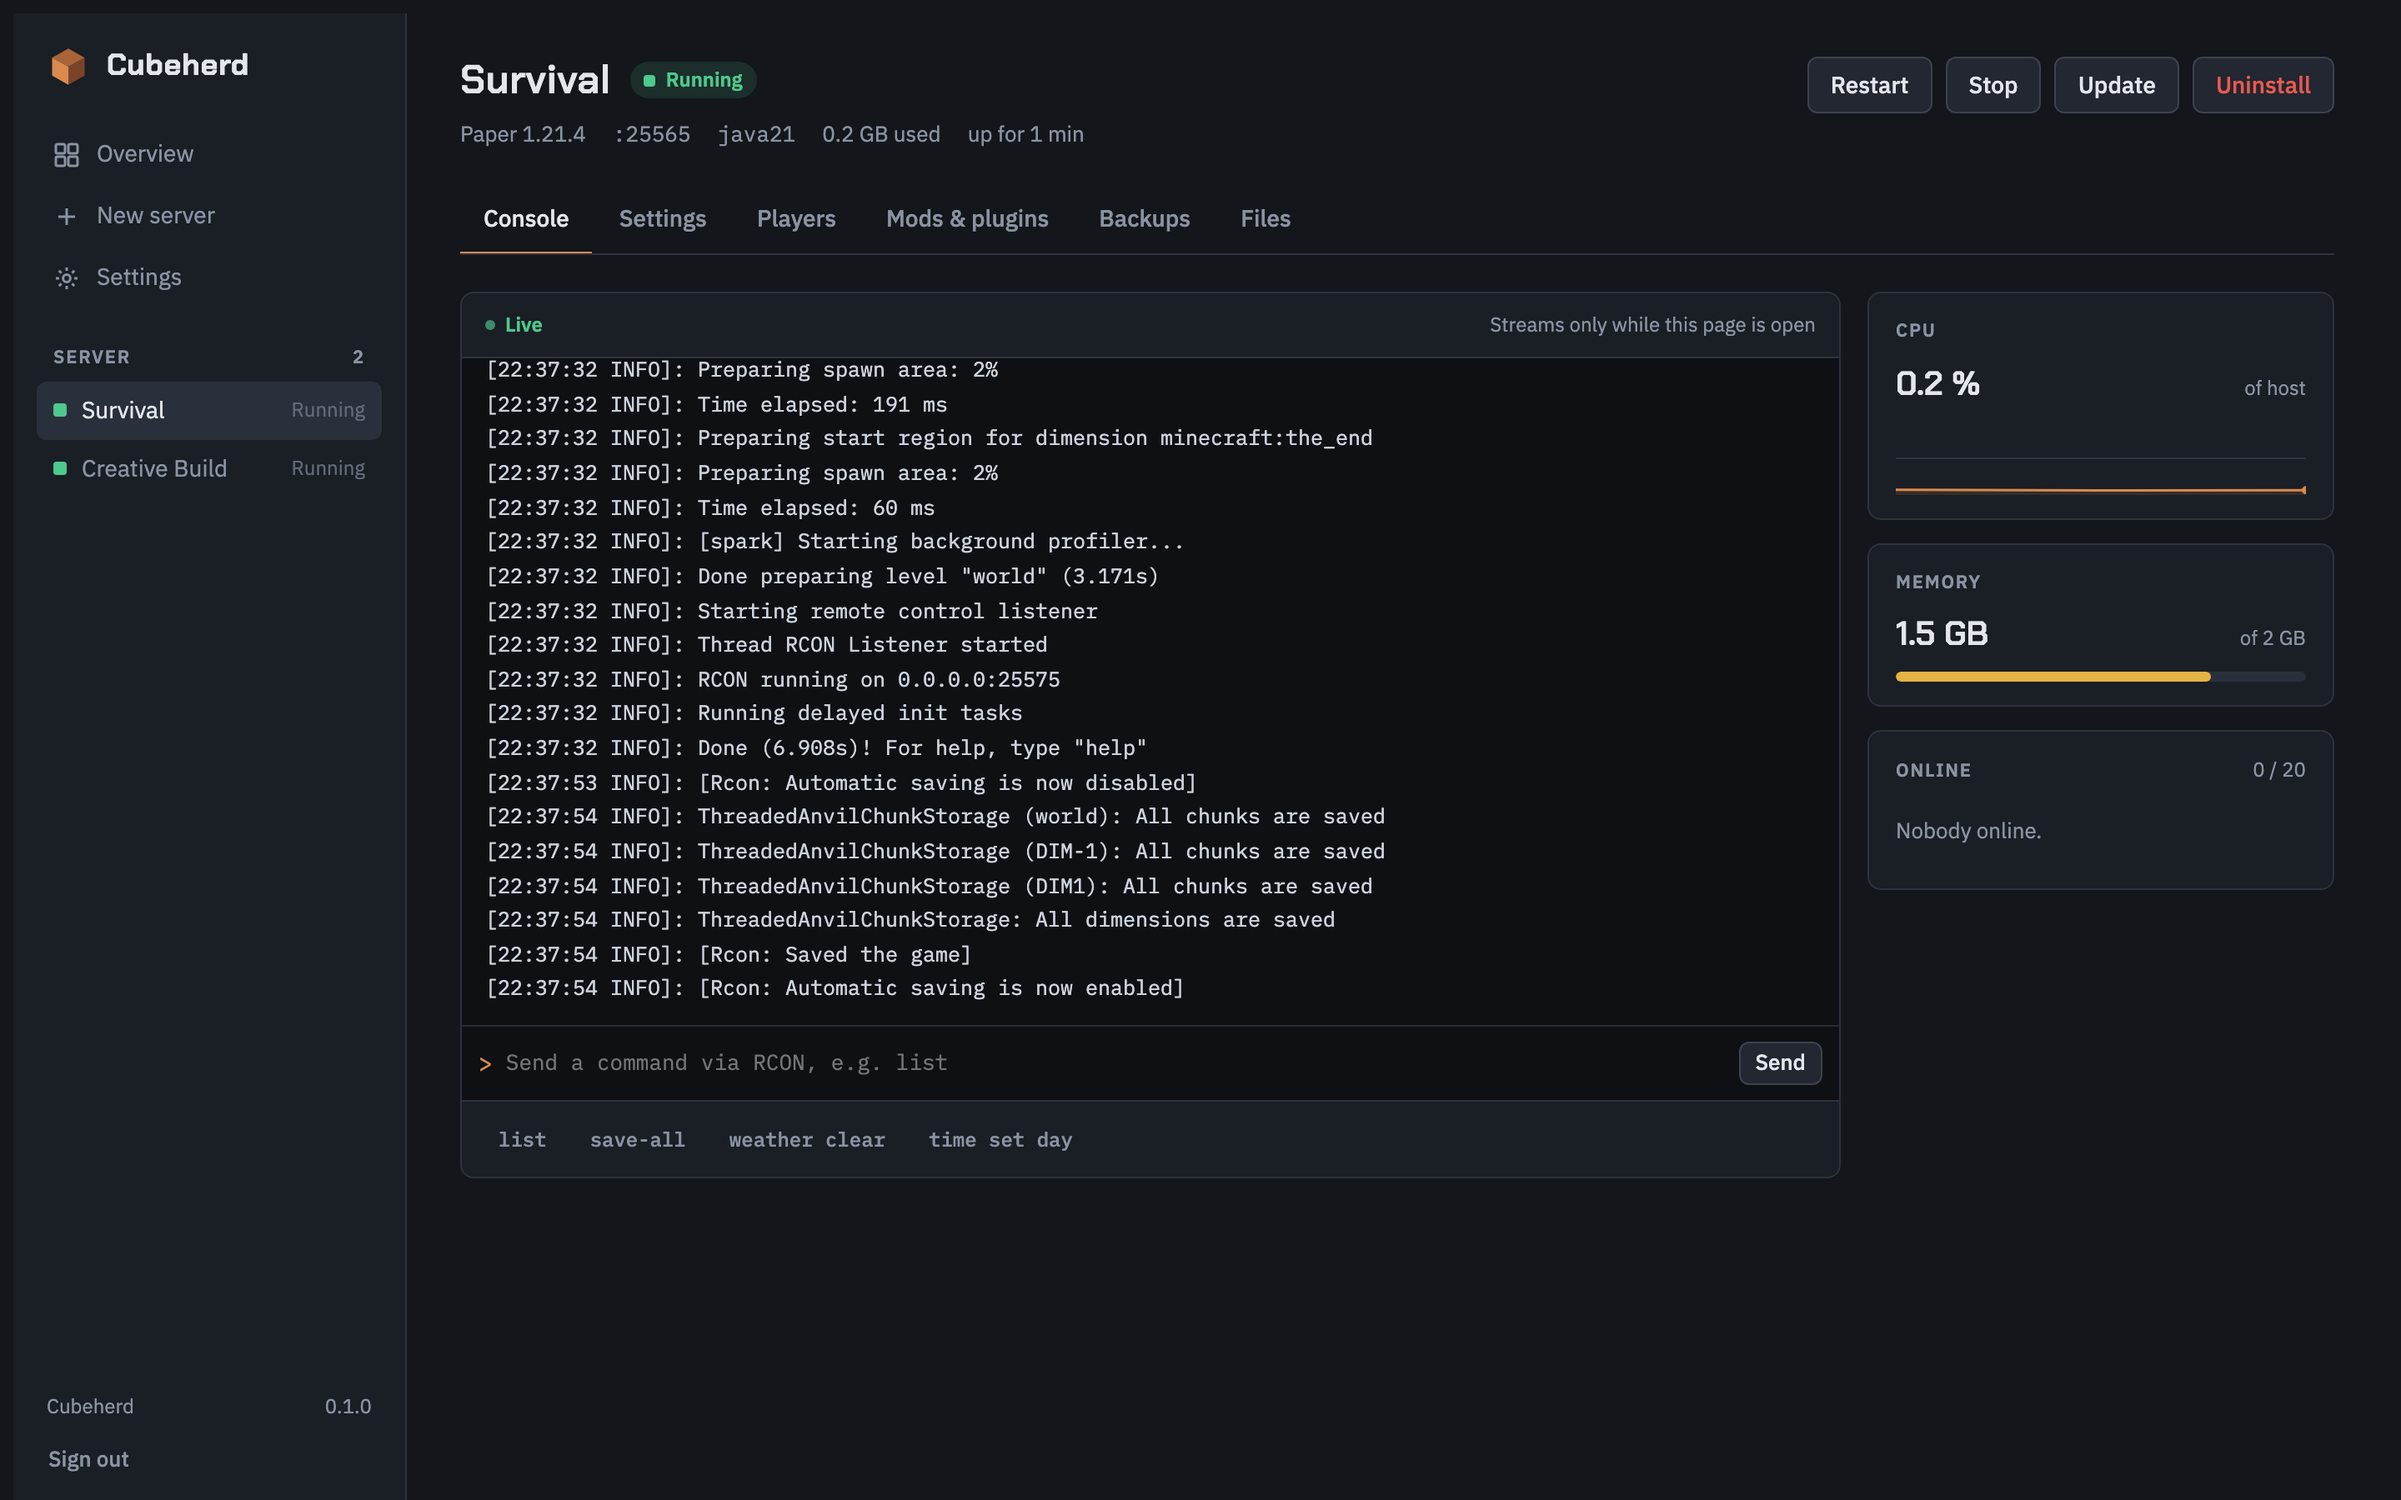
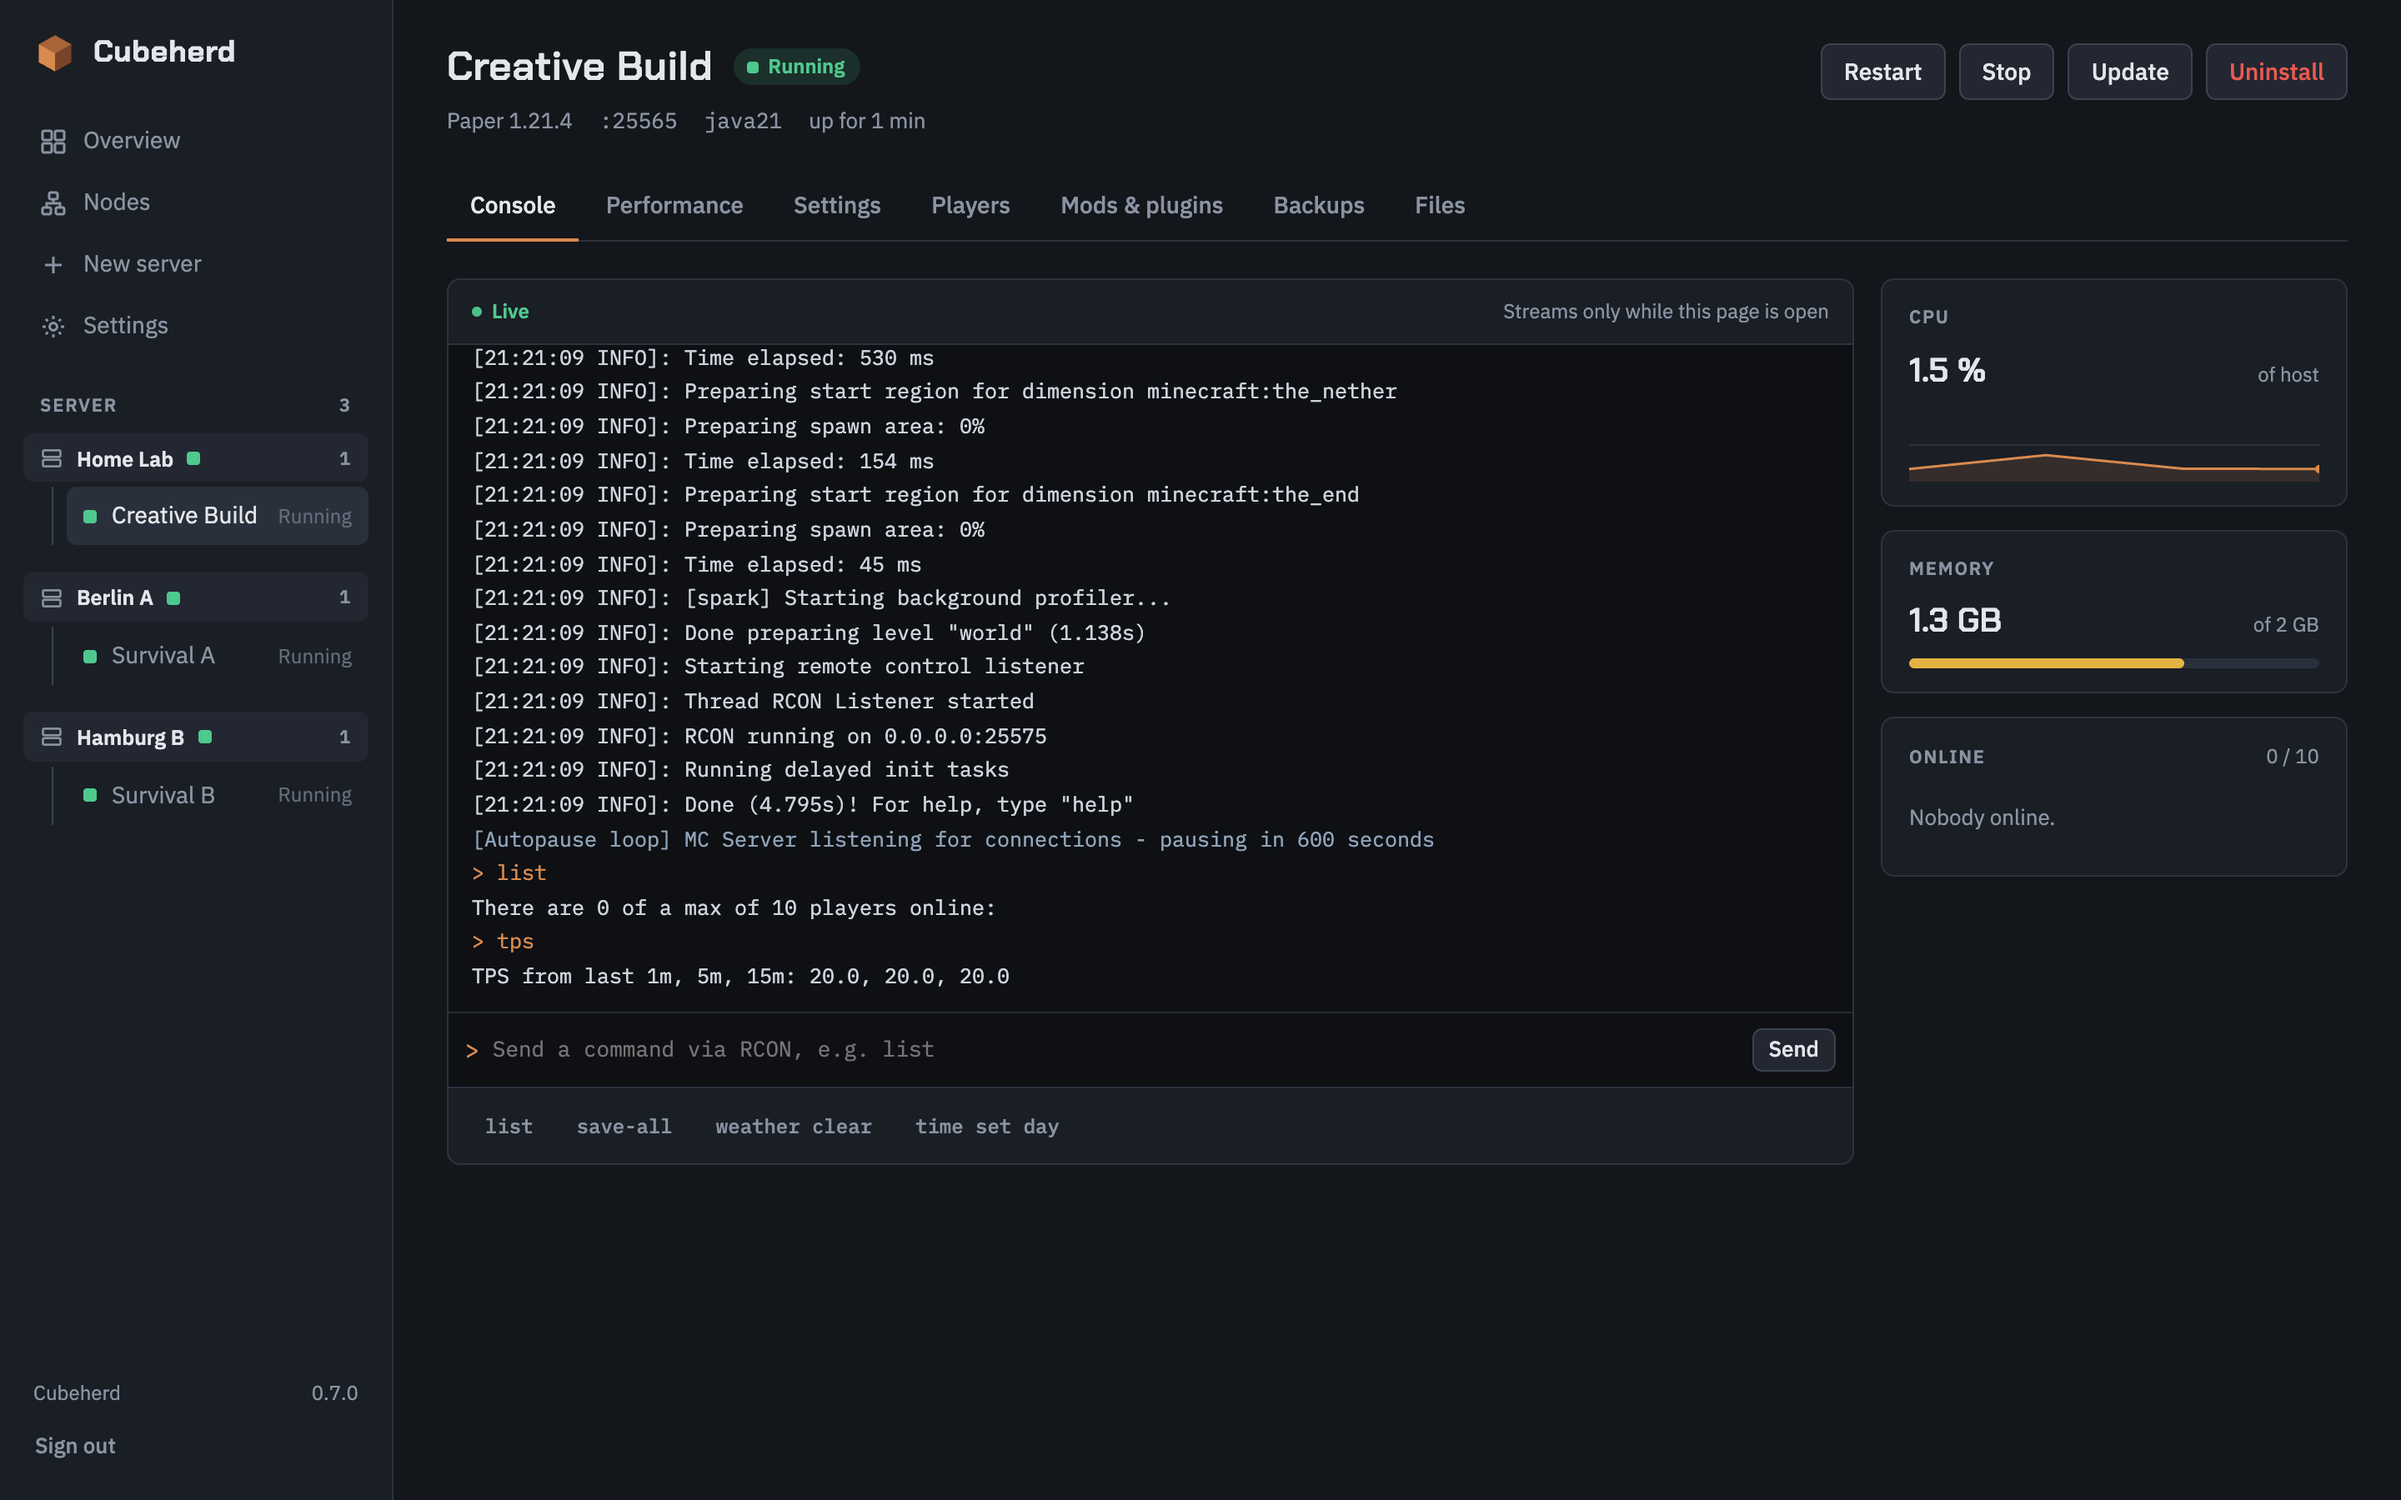
Replace the README screenshots with the multi-host interface
New screenshots of the overview (three nodes with their servers, node cards,
node column and filter), the console, the plugin search, backups and the file
browser, taken from a three-VM lab at 2x. The sidebar now shows the nodes with
their servers indented underneath. The banner is artwork and stays.

diff --git a/README.md b/README.md
@@ -17,7 +17,7 @@ a single Go binary, around 10 MB of RAM and 0 % CPU when idle, no database. Live
 ## Screenshots
 
 <p align="center">
-  <img src="docs/images/overview.png" alt="Overview with two running servers" width="100%">
+  <img src="docs/images/overview.png" alt="Overview of three nodes with their servers" width="100%">
 </p>
 
 <table>
